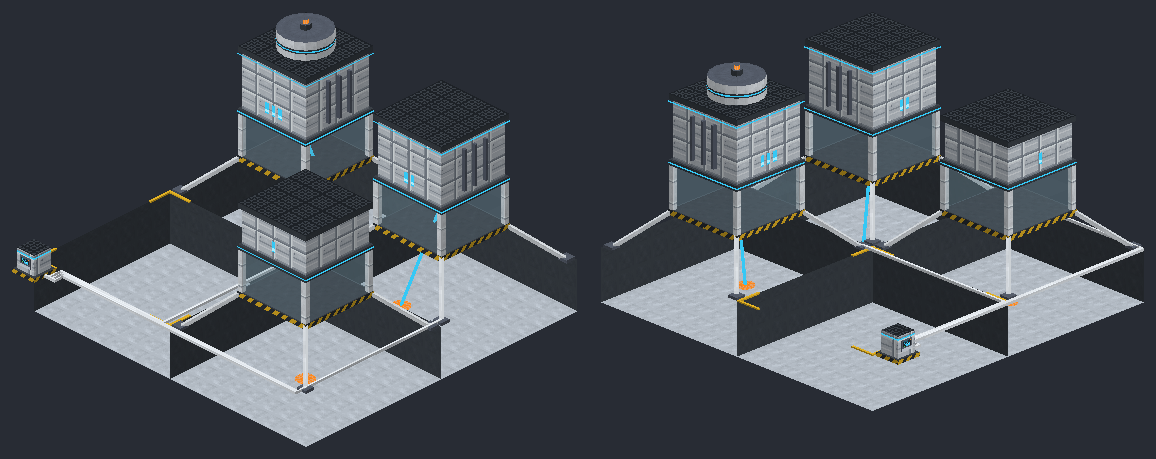
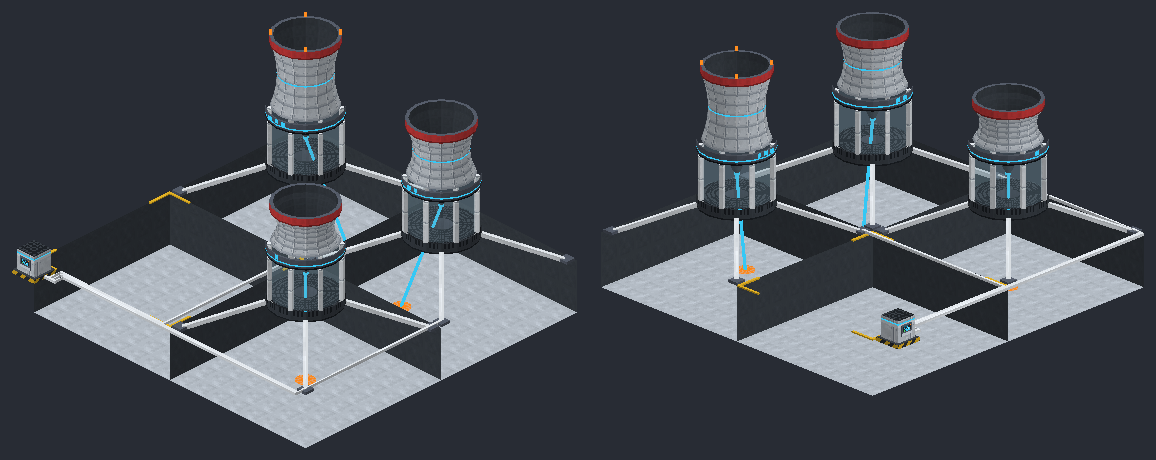
Melt Drill concept: each drill a small fission station on legs, with its own textures

diff --git a/art/tools/melt_drill_concept.py b/art/tools/melt_drill_concept.py
@@ -6,11 +6,12 @@ just outside a chunk and works the chunk it faces, split into four 8 x 8 quarter
 items: put one in the quarry block and it stands a drill up in the next free quarter. Better drills
 are crafted from the one before (Mk I, II, III), so a quarry is upgraded, not replaced (rule 11).
 The picture shows a chunk with a Mk I, a Mk II and a Mk III drill and one quarter waiting.
-- A drill: a compact tower raised on four splayed legs over its quarter, so it stands over its pit
-  as the pit deepens. Its bottom storey is the beam chamber behind glass, the emitter a graphite
-  cone pointing down, its beam sweeping the whole 8 x 8 below; above it the drill core, the beam
-  generator. Each mark is a little grander: the Mk I a plain core, the Mk II taller with a light
-  band and cooling fins, the Mk III taller again with a resonator drum and a beacon.
+- A drill: a small fission station of its own, raised on four splayed legs over its quarter, so it
+  stands over its pit as the pit deepens. A graphite skirt, the glass chamber ring between white
+  ribs with the emitter inside (a graphite cone pointing down, its beam sweeping the whole 8 x 8
+  below), a gunmetal head band with its light line, and a short white hyperbolic stack with the
+  station's aviation marking round its top. Each mark stands taller: the Mk II's stack carries a
+  second light ring, the Mk III's is taller again with beacons on its rim.
 - Below, cut away: each quarter's pit, its walls glazed in fused rock, the hot spot where the beam
   is melting.
 - The quarry block outside the chunk's edge: a console with the station's screen, the four drills'
@@ -24,6 +25,7 @@ import sys
 
 import model_preview as mp
 import breeder_textures
+import drill_textures
 from quad_design import Design
 
 B = 16
@@ -34,6 +36,7 @@ TEXTURES = {'breeder_' + name: 'ryzergen:block/breeder/' + name for name in bree
 TEXTURES.update({name: 'ryzergen:block/microreactor/' + name for name in ('hazard', 'glow', 'screen')})
 TEXTURES['front_panel'] = 'ryzergen:block/breeder/front_panel'
 TEXTURES['glass'] = 'ryzergen:block/breeder/glass'
+TEXTURES.update({'drill_' + name: 'ryzergen:block/drill/' + name for name in drill_textures.TEXTURES})
 d = Design(CHUNK / 2, TEXTURES, {'glow', 'screen', 'breeder_amber'})
 UV = [(0, 0), (16, 0), (16, 16), (0, 16)]
 
@@ -73,79 +76,88 @@ def marker(x1, z1):
 
 
 def drill(x1, z1, mark, aim):
-    """A drill over the quarter at (x1, z1): legs, the glass beam chamber, the core for its mark,
-    and its beam aimed at `aim` (a point on the pit's floor, as it sweeps)."""
+    """A drill over the quarter at (x1, z1): a small fission station of its own, raised on four
+    splayed legs over its pit. Bottom to top: a graphite skirt round the chamber's floor, the glass
+    chamber ring between white ribs with the emitter inside firing down, a gunmetal head band with
+    its cyan light line, and a short white hyperbolic stack topped with the station's aviation
+    marking. Each mark stands taller: the Mk II's stack carries a second light ring, the Mk III's
+    is taller again with beacons on its rim. Its beam is aimed at `aim` on the pit's floor."""
     qx, qz = x1 + QUARTER / 2, z1 + QUARTER / 2
-    half = 2 * B            # the tower is 4 x 4
+    r = 26                  # the station's radius (a little under 4 blocks across)
     base = 28               # the chamber's floor, up on the legs
-    chamber = base + 2 * B
-    core = chamber + 4 + (2, 3, 3)[mark - 1] * B
-    # Legs from the quarter's corners up to the tower's corners, with a foot plate and a brace.
-    for sx in (-1, 1):
-        for sz in (-1, 1):
-            foot = (qx + sx * (QUARTER / 2 - 5), 0, qz + sz * (QUARTER / 2 - 5))
-            top = (qx + sx * (half - 3), base, qz + sz * (half - 3))
-            d.sweep('breeder_leg', [foot, top], 1.6, 1.6, lambda i: (0, 1, 0), closed=False, caps=True)
+    chamber = (base, base + 2 * B)
+    head = (chamber[1], chamber[1] + 8)
+    stack_h = (24, 36, 48)[mark - 1]
+    top = head[1] + stack_h
+
+    def at(phi, rad, y):
+        return (qx + rad * math.cos(phi), y, qz + rad * math.sin(phi))
+
+    whole = d.at
+    d.at = at
+    try:
+        # Legs from the quarter's corners up under the skirt, with foot plates.
+        for k in range(4):
+            phi = math.radians(45 + 90 * k)
+            foot = at(phi, (QUARTER / 2 - 5) * math.sqrt(2), 0)
+            d.sweep('breeder_leg', [foot, at(phi, r - 4, base - 6)], 1.6, 1.6, lambda i: (0, 1, 0), closed=False, caps=True)
             d.box('breeder_fitting', foot[0] - 4, 0, foot[2] - 4, foot[0] + 4, 2, foot[2] + 4, skip=('down',))
-    # The chamber's floor: a graphite frame with a hazard edge, open in the middle for the beam.
-    d.box('breeder_graphite', qx - half, base - 4, qz - half, qx + half, base, qz + half, skip=())
-    for y, h in ((base - 4, 4),):
-        d.box('hazard', qx - half - 0.4, y, qz - half - 0.4, qx + half + 0.4, y + h, qz + half + 0.4, skip=('up', 'down'))
-    # Pillars and glass round the chamber.
-    for sx in (-1, 1):
-        for sz in (-1, 1):
-            px, pz = qx + sx * (half - 2), qz + sz * (half - 2)
-            d.box('breeder_leg', px - 2, base, pz - 2, px + 2, chamber, pz + 2, skip=('up', 'down'))
-    d.group = 'glass'
-    for y in range(base, chamber, B):
-        for side in (-1, 1):
-            z = qz + side * (half - 1)
-            for sign in (1, -1):
-                d.quad('glass', [(qx - half + 4, y + B, z), (qx + half - 4, y + B, z), (qx + half - 4, y, z), (qx - half + 4, y, z)], UV,
-                       (0, 0, side * sign))
-            x = qx + side * (half - 1)
-            for sign in (1, -1):
-                d.quad('glass', [(x, y + B, qz - half + 4), (x, y + B, qz + half - 4), (x, y, qz + half - 4), (x, y, qz - half + 4)], UV,
-                       (side * sign, 0, 0))
-    d.group = 'static'
-    d.box('breeder_graphite', qx - half, chamber, qz - half, qx + half, chamber + 4, qz + half)
-    d.box('glow', qx - half - 0.2, chamber + 1.5, qz - half - 0.2, qx + half + 0.2, chamber + 2.5, qz + half + 0.2, skip=('up', 'down'))
-    # The emitter: a mount and a graphite cone pointing down, its lens glowing.
-    tip = chamber - 18
-    centred(qx, qz, lambda: (
-        d.cylinder('breeder_hub', chamber - 8, chamber, 7, n=12),
-        d.annulus('breeder_fitting', chamber - 8, 0, 7, up=False, n=12),
-        d.lathe('breeder_graphite', [(tip + 2, 2), (chamber - 8, 6)], n=12),
-        d.cylinder('glow', tip, tip + 2, 2, n=8)))
+        # The skirt and the chamber's floor: a ring, open in the middle for the beam.
+        d.cylinder('drill_skirt', base - 8, base, r + 1, n=16)
+        d.annulus('drill_skirt', base - 8, 8, r + 1, up=False, n=16)
+        d.annulus('breeder_grate', base, 8, r, n=16)
+        d.cylinder('breeder_fitting', base - 8, base, 8, n=12, inward=True)
+        # The glass chamber between eight white ribs.
+        with_group('glass', lambda: (d.cylinder('glass', chamber[0], chamber[1], r - 1, n=16),
+                                     d.cylinder('glass', chamber[0], chamber[1], r - 1, n=16, inward=True)))
+        for k in range(8):
+            d.post('breeder_leg', math.radians(22.5 * (2 * k + 1)), r, chamber[0], chamber[1], 1.5, 1.5)
+        # The emitter, hung from the head: a mount and a graphite cone pointing down, lens glowing.
+        tip = chamber[1] - 18
+        d.cylinder('drill_frame', chamber[1] - 8, chamber[1], 7, n=12, v0=8)
+        d.annulus('breeder_fitting', chamber[1] - 8, 0, 7, up=False, n=12)
+        d.lathe('breeder_graphite', [(tip + 2, 2), (chamber[1] - 8, 6)], n=12)
+        d.cylinder('glow', tip, tip + 2, 2, n=8)
+        # The head band and its light line.
+        d.cylinder('drill_ring', head[0], head[1], r + 1, n=16, v0=8)
+        d.annulus('drill_ring', head[0], 0, r + 1, up=False, n=16)
+        d.cylinder('glow', head[0] + 2.5, head[0] + 3.5, r + 1.2, n=16)
+        # The stack: a short hyperbolic tower in white cladding, narrowing then flaring a little.
+        profile = []
+        for k in range(7):
+            t = k / 6
+            y = head[1] + stack_h * t
+            profile.append((y, r - 2 - 6 * (1 - (2 * t - 1) ** 2) * 0.8))
+        d.lathe('drill_casing', profile, n=16)
+        d.lathe('breeder_graphite', profile, n=16, inward=True)
+        if mark >= 2:
+            mid = head[1] + stack_h * 0.5
+            d.cylinder('glow', mid, mid + 1, r - 2 - 6 * 0.8 + 0.3, n=16)
+        # The aviation marking round the top, and the rim.
+        d.cylinder('drill_warning', top, top + 6, r - 1.5, n=16, v0=10)
+        d.annulus('breeder_fitting', top + 6, r - 4, r - 1.5, n=16)
+        d.cylinder('breeder_graphite', top, top + 6, r - 4, n=16, inward=True)
+        if mark >= 3:
+            for k in range(4):
+                d.post('breeder_amber', math.radians(45 + 90 * k), r - 2.8, top + 6, top + 9, 1, 1)
+        # The mark: one, two or three cyan bars on the head band's front.
+        for k in range(mark):
+            x = qx - (mark - 1) * 3 + k * 6
+            d.box('glow', x - 1.5, head[0] + 4.5, qz - r - 1.6, x + 1.5, head[1] - 0.5, qz - r - 1.1, skip=('south',))
+    finally:
+        d.at = whole
     # The beam, from the lens to where it is melting on the pit's floor, and the hot spot there.
     d.sweep('glow', [(qx, tip, qz), (aim[0], -DEPTH + 0.5, aim[1])], 0.8, 0.8, lambda i: (1, 0, 0), closed=False, caps=True)
     centred(aim[0], aim[1], lambda: d.disc('breeder_amber', -DEPTH, -DEPTH + 0.6, 7, n=12))
-    # The core: casing panels between graphite bands, a light strip under the top band.
-    inset = 2
-    d.box('breeder_hub', qx - half + inset, chamber + 4, qz - half + inset, qx + half - inset, core, qz + half - inset, top='breeder_grate')
-    d.box('breeder_graphite', qx - half, core - 4, qz - half, qx + half, core, qz + half, top='breeder_grate', skip=('down',))
-    if mark >= 2:
-        d.box('glow', qx - half - 0.2, core - 6, qz - half - 0.2, qx + half + 0.2, core - 5, qz + half + 0.2, skip=('up', 'down'))
-        # Cooling fins down the sides.
-        for k in range(3):
-            off = (k - 1) * 10
-            for sx in (-1, 1):
-                d.box('breeder_fitting', qx + sx * (half - inset) - (0 if sx > 0 else 3), chamber + 10, qz + off - 1,
-                      qx + sx * (half - inset) + (3 if sx > 0 else 0), core - 10, qz + off + 1)
-    if mark >= 3:
-        drum = (core, core + 14)
-        centred(qx, qz, lambda: (
-            d.cylinder('breeder_steel_pipe', drum[0], drum[1], 20, n=16),
-            d.cylinder('breeder_graphite', drum[0] + 5, drum[0] + 8, 20.2, n=16),
-            d.cylinder('glow', drum[0] + 6, drum[0] + 7, 20.4, n=16),
-            d.annulus('breeder_fitting', drum[1], 0, 20, n=16),
-            d.cylinder('breeder_graphite', drum[1], drum[1] + 4, 4, n=8),
-            d.cylinder('breeder_amber', drum[1] + 4, drum[1] + 7, 2, n=8)))
-    # The mark's plaque on the front: one, two or three cyan bars.
-    for k in range(mark):
-        x = qx - (mark - 1) * 3 + k * 6
-        d.box('glow', x - 1.5, chamber + 10, qz - half + inset - 0.3, x + 1.5, chamber + 18, qz - half + inset, skip=('south',))
     return (qx - QUARTER / 2 + 5, qz - QUARTER / 2 + 5)
+
+
+def with_group(name, draw):
+    d.group = name
+    try:
+        draw()
+    finally:
+        d.group = 'static'
 
 
 # The chunk: quarters 1 to 4 (as the user's sketch numbers them), each with its pit; drills in three.
@@ -163,7 +175,7 @@ marker(*Q[4])
 BX, BZ = CHUNK - B - 4, -B - 4
 d.box('breeder_graphite', BX - 2, 0, BZ - 2, BX + B + 2, 3, BZ + B + 2, skip=('down',))
 d.box('hazard', BX - 2.4, 0, BZ - 2.4, BX + B + 2.4, 3, BZ + B + 2.4, skip=('up', 'down'))
-d.box('breeder_hub', BX, 3, BZ, BX + B, 3 + B, BZ + B, top='breeder_grate')
+d.box('drill_casing', BX, 3, BZ, BX + B, 3 + B, BZ + B, top='breeder_grate')
 d.box('breeder_fitting', BX + 3, 7, BZ - 0.5, BX + B - 3, 15, BZ, decals={'north': 'screen'}, skip=('south',))
 d.box('glow', BX - 0.2, 3 + B - 3, BZ - 0.2, BX + B + 0.2, 3 + B - 2, BZ + B + 0.2, skip=('up', 'down'))
 # Conduits from each drill's front foot along the ground to the quarry block.
@@ -176,6 +188,7 @@ for k, (fx, fz) in enumerate(feet):
 def main():
     out = sys.argv[1] if len(sys.argv) > 1 else os.path.join(mp.ROOT, 'art', 'concepts', 'melt_drill.png')
     breeder_textures.main()
+    drill_textures.main()
     d.save_png(out, [((1, 1), 1.5, 0.5), ((-1, 1), 1.5, 0.4)])
 
 

diff --git a/art/tools/drill_textures.py b/art/tools/drill_textures.py
@@ -1,0 +1,111 @@
+"""The Melt Drill's own textures (block/drill/), for its concept (melt_drill_concept.py), drawn to
+the house style and even, as the breeder's are: big faces get panels drawn a block each, bands get
+textures drawn at their height, round parts change only down their height.
+- casing: the drill core's light cladding, one plate per block, lit along the top and the left, a
+  shadowed foot and right edge, so a wall of them reads as neat plates (as the station's stack).
+- vent: a louvred graphite vent, a block, set into the middle of each face of the core.
+- band: a graphite band 4 high (rows 12 to 15), lit along its top, bolted every 4 pixels: the
+  core's top and the chamber's ceiling.
+- frame: the beam chamber's floor frame, 4 high, gunmetal with a lit lip.
+- skirt, ring and warning: the quarry block's round body, a small reactor station of its own: a
+  graphite skirt with vent slots, a gunmetal head ring with the groove for its light line, and
+  the station's aviation marking (red, white, red) round its top.
+Run from the repo root:
+    python art/tools/drill_textures.py
+"""
+from pixelart import *  # noqa: F401,F403
+
+FOLDER = 'block/drill/'
+
+
+def casing():
+    t = Tex()
+    t.rect(0, 0, 15, 15, 'E')
+    t.rect(0, 0, 15, 1, 'A')
+    t.rect(0, 2, 0, 14, 'A')
+    t.rect(15, 2, 15, 14, 'J')
+    t.rect(0, 15, 15, 15, 'I')
+    t.rect(1, 14, 14, 14, 'F')
+    # Rivets in the corners.
+    for x, y in ((2, 3), (13, 3), (2, 12), (13, 12)):
+        t.set(x, y, 'I')
+        t.set(x - 1, y - 1, 'A')
+    return t
+
+
+def vent():
+    t = Tex()
+    t.rect(0, 0, 15, 15, 'b')
+    t.rect(0, 0, 15, 0, 'M')
+    t.rect(0, 0, 0, 15, 'M')
+    t.rect(15, 0, 15, 15, 'U')
+    t.rect(0, 15, 15, 15, 'U')
+    for y in range(2, 14):
+        t.rect(2, y, 13, y, ('M', 'S', 'U')[(y - 2) % 3])
+    return t
+
+
+def band():
+    t = Tex()
+    t.rect(0, 12, 15, 15, 'S')
+    t.rect(0, 12, 15, 12, 'M')
+    t.rect(0, 15, 15, 15, 'U')
+    for x in range(1, 16, 4):
+        t.set(x, 13, 'l')
+        t.set(x, 14, 'T')
+    return t
+
+
+def frame():
+    t = Tex()
+    t.rect(0, 12, 15, 15, 'u')
+    t.rect(0, 12, 15, 12, 's')
+    t.rect(0, 15, 15, 15, 'z')
+    return t
+
+
+def skirt():
+    t = Tex()
+    t.rect(0, 0, 15, 15, 'S')
+    t.rect(0, 0, 15, 0, 'M')
+    t.rect(0, 15, 15, 15, 'U')
+    for x in (3, 7, 11):
+        t.rect(x, 4, x + 1, 11, 'U')
+        t.rect(x, 4, x + 1, 4, 'T')
+    return t
+
+
+def ring():
+    t = Tex()
+    for y, c in enumerate(['H', 's', 'u', 'u', 'z', 'T', 'T', 'z', 's', 'u', 'u', 'u', 'u', 'u', 'z', 'K']):
+        t.rect(0, y, 15, y, c)
+    return t
+
+
+def warning():
+    t = Tex()
+    for y, c in enumerate(['x'] * 5 + ['A'] * 5 + ['x'] * 6):
+        t.rect(0, y, 15, y, c)
+    t.rect(0, 0, 15, 0, 'e')
+    t.rect(0, 15, 15, 15, '8')
+    return t
+
+
+TEXTURES = {
+    'casing': casing,
+    'vent': vent,
+    'band': band,
+    'frame': frame,
+    'skirt': skirt,
+    'ring': ring,
+    'warning': warning,
+}
+
+
+def main():
+    for name, fn in TEXTURES.items():
+        publish_finished(FOLDER + name, fn())
+
+
+if __name__ == '__main__':
+    main()

diff --git a/docs/DESIGN.md b/docs/DESIGN.md
@@ -585,8 +585,8 @@ A deuterium-tritium tokamak, built and fuelled from section 10. Draft, 25 Sep 20
 ## 11c. The Melt Drill (tiers 2 to 3; settled 3 Oct 2026, first numbers)
 The mod's own miner: not a box quarry but a drill that melts its way straight down. Real basis: the rock-melting drills Los Alamos built and tested in the 1970s, which melted their own holes, pushed the melt up a central stem and left the hole lined with glass where the molten rock cooled against the sides. Oil rigs work the same way above ground: a derrick, a drill string down the hole, everything brought up to the surface. (Working name "Melt Drill"; the real project's name is never used.)
 - **The quarry block and its drills** (3 Oct 2026, the user's design): the quarry block is a single block holding the inventory, the power and the controls. It sits just outside a chunk and works the chunk it faces, split into four 8 x 8 quarters. Drills are items: put one in the quarry block and it stands a drill up in the next free quarter, up to four. Concept: `art/tools/melt_drill_concept.py`.
-  - **A drill** is a compact tower (4 x 4) raised on four splayed legs over the middle of its quarter, so it stands over its pit as the pit deepens. Its bottom storey is the beam chamber behind glass, a graphite emitter cone pointing down whose beam sweeps the whole 8 x 8 below; above it the drill core, the beam generator.
-  - **Three marks:** a Mk I runs on microreactor power; a Mk II is crafted from a Mk I with advanced boards, faster on more power; a Mk III from a Mk II, at fission power. Each looks grander (the Mk II a taller core with fins and a light band, the Mk III a resonator drum and a beacon). A quarry is upgraded by swapping in better drills, never replaced (rule 11).
+  - **A drill is a small fission station of its own** (3 Oct 2026), raised on four splayed legs over the middle of its quarter, so it stands over its pit as the pit deepens: a graphite skirt, the glass chamber ring between white ribs with the emitter inside (a graphite cone pointing down whose beam sweeps the whole 8 x 8 below), a gunmetal head band with its light line, and a short white hyperbolic stack with the station's aviation marking round its top. Its own textures (`art/tools/drill_textures.py`), not the station's.
+  - **Three marks:** a Mk I runs on microreactor power; a Mk II is crafted from a Mk I with advanced boards, faster on more power; a Mk III from a Mk II, at fission power. Each stands taller (the Mk II's stack with a second light ring, the Mk III's taller again with beacons on its rim) and wears one, two or three cyan bars on its head band. A quarry is upgraded by swapping in better drills, never replaced (rule 11).
   - **Chunk loading:** the quarry block is in a neighbouring chunk, so while it runs it keeps the chunk it mines loaded (a config switch turns that off for packs that limit chunk loading; the drills then work only while their chunk is loaded anyway).
   - Real basis: millimetre-wave drilling, now being developed, where a gyrotron (the microwave source that heats fusion plasma) beams energy down a borehole to vaporise the rock, the vapour is blown back up the hole, and the walls glaze to glass. The rock-melting drills of the 1970s are its ancestors.
 - **Bringing it up:** what each beam frees is blown back up into its drill, as the vapour is in real millimetre-wave drilling, and sent along a conduit to the quarry block. Pull it all out of the quarry block with an item pipe.
